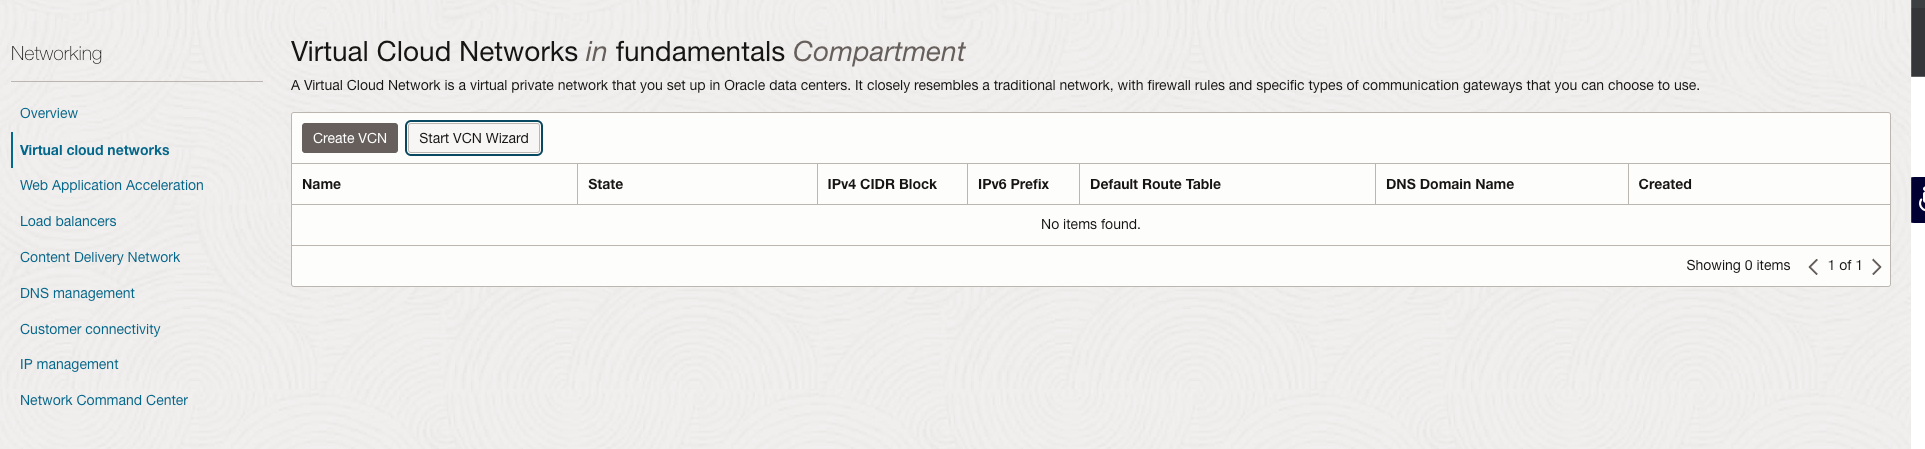
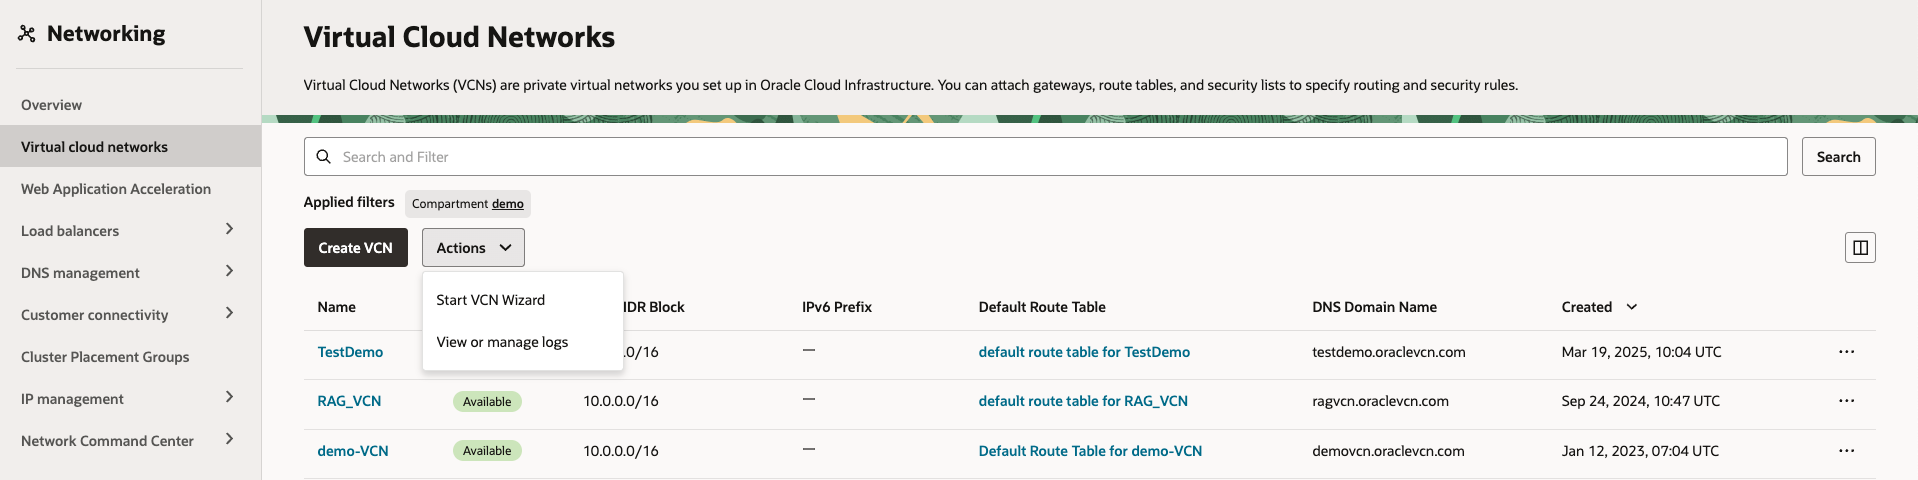
v11

diff --git a/Demo Lectures/VCN.md b/Demo Lectures/VCN.md
@@ -1,23 +1,24 @@
 # Create VCN
 1. Open the navigation menu and click **Networking** &rarr; **Virtual Cloud Networks** 
-![drawing](../SS/vcn/1.png)
 
-2. Click on **Start VCN Wizard**
+2. Click on **Action** -> **Start VCN Wizard**
+
+    ![drawing](../SS/vcn/1.png)
+
+3. Choose **Create VCN with Internet Connectivity**
 
     ![drawing](../SS/vcn/2.png)
 
-3. Click on **Start VCN Wizard**
+4. Fill the name of the VCN and leave everything else as default
 
     ![drawing](../SS/vcn/3.png)
 
-4. Fill the name of the VCN and leave everything else as default
+5. Scrolldown and click on **Next**
 
-    ![drawing](../SS/vcn/4.png)
+6. Review and click on **Create**
 
-5. Scrolldown and click on **Create**
+     ![drawing](../SS/vcn/4.png)
 
-     ![drawing](../SS/vcn/5.png)
+7. Once done, click on **View VCN** to see your new Virtual Cloud Network
 
-6. Click on **View VCN**
-
-    ![drawing](../SS/vcn/6.png)
+    ![drawing](../SS/vcn/5.png) 
